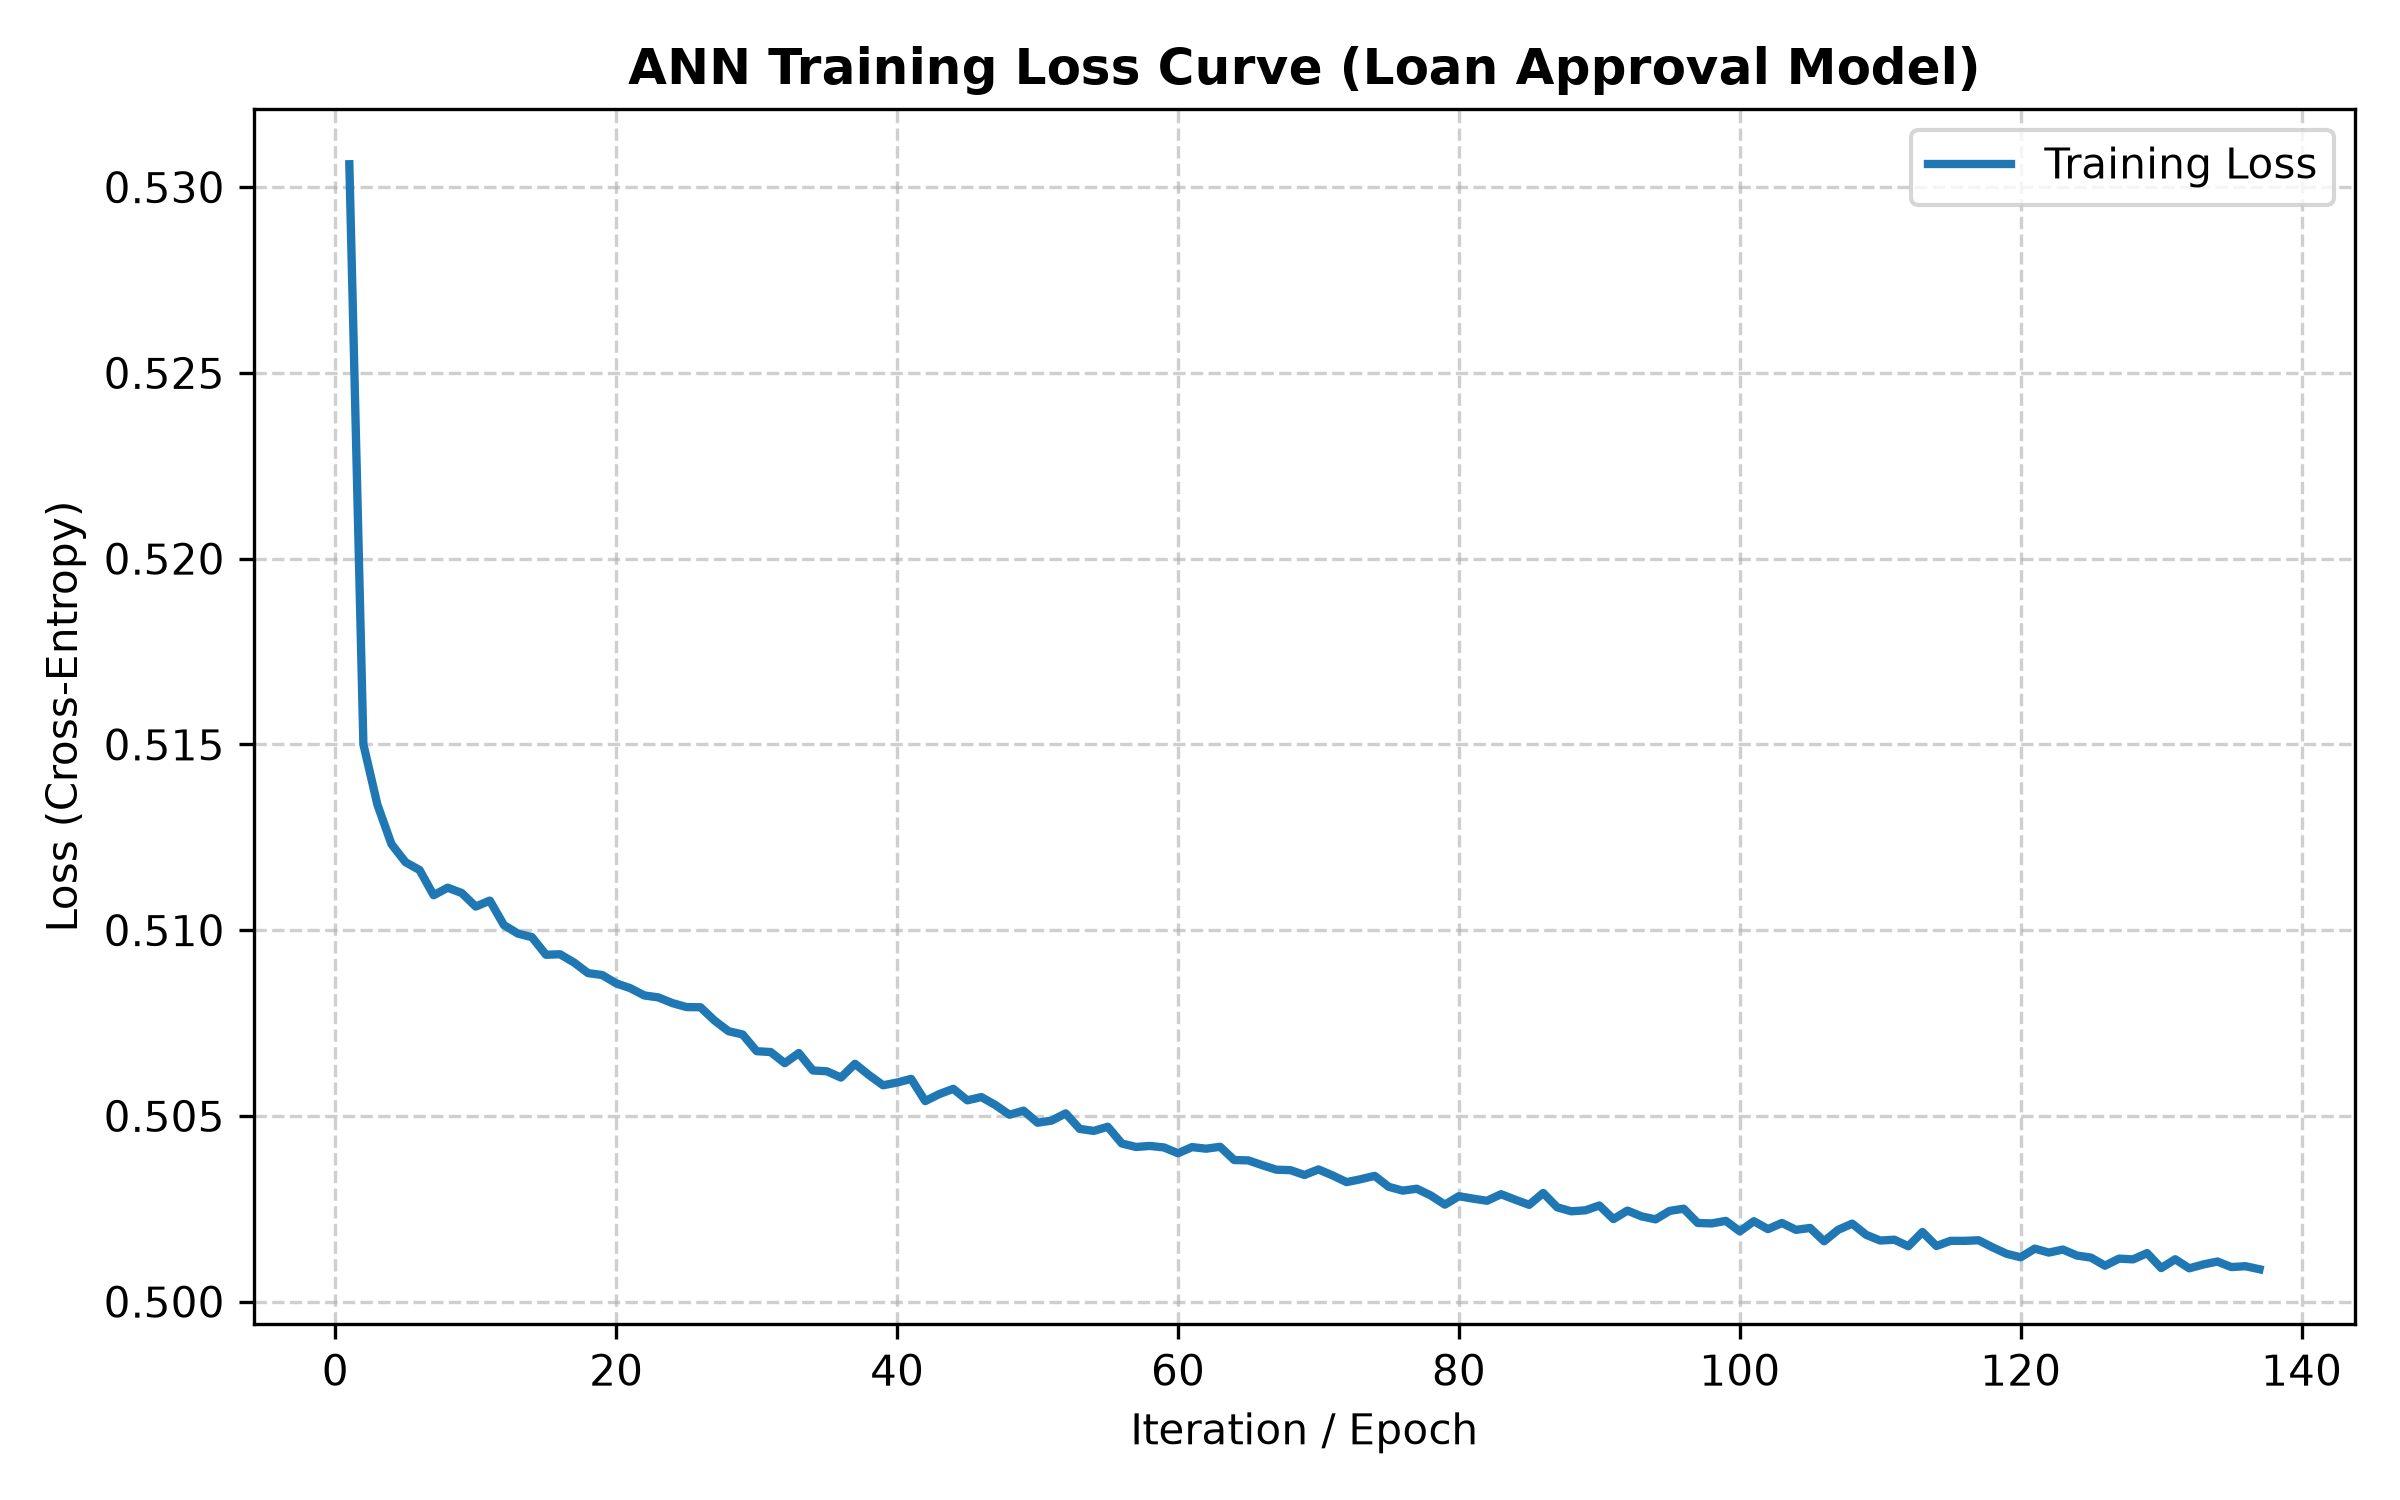
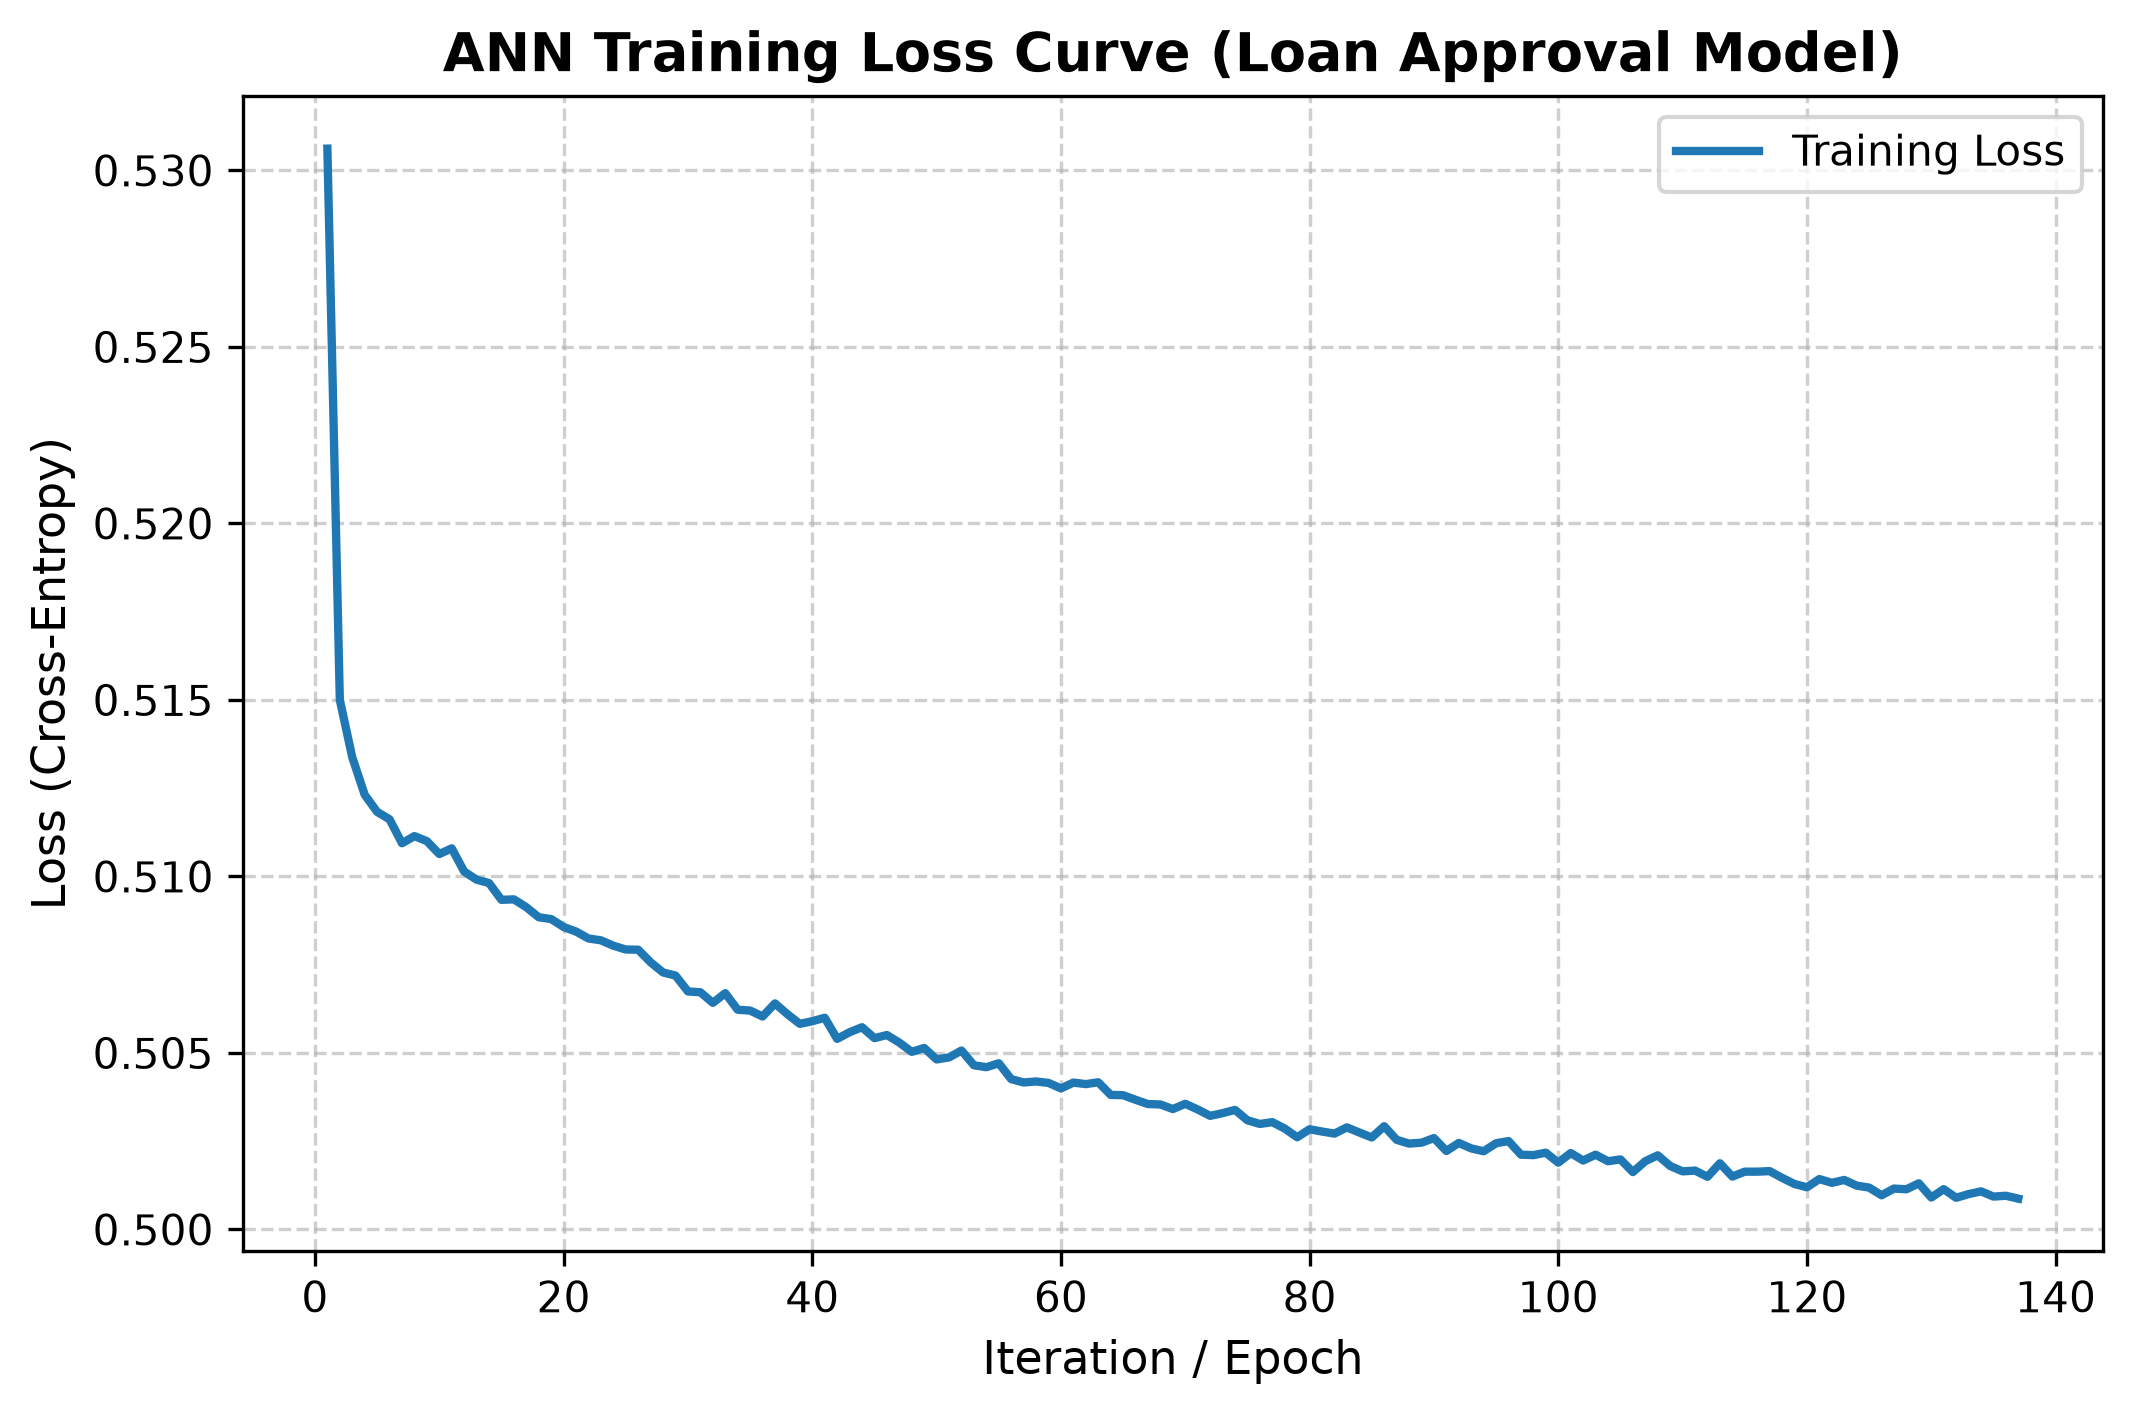
rearanging files

diff --git a/docs/STEP-3.md b/docs/STEP-3.md
@@ -37,3 +37,23 @@ All training artifacts and evaluation outputs are persisted to disk[cite: 17]:
 
 ## 7. Model Limitations
 This model provides automated statistical risk scoring based on historical training data[cite: 10, 15]. It does not replace manual credit underwriting, full institutional audits, or real-time regulatory compliance checks. Decisions with borderline confidence thresholds require human underwriter review to prevent unintended financial exposure or discriminatory bias[cite: 2, 16].
+---
+
+## 8. Product Integration: Loan Decision Card & Risk Meters (Product v1)
+
+### Overview
+Translates raw model probability outputs (`ann_pipeline.predict_proba`) into an interpretable operational interface based on `product-v1-sketch.png`[cite: 1, 2].
+
+### Key Components:
+1. **Decision Status & Thresholding**:
+   - **Approved (Green)**: Probability score $\ge 0.75$ (strictly enforces low default risk)[cite: 2].
+   - **Rejected / Underwriter Referral (Red/Amber)**: Probability score $< 0.75$[cite: 2].
+2. **Dual Risk Meters**:
+   - **Approval Probability Gauge**: Direct model confidence score ($0\% - 100\%$)[cite: 2].
+   - **Default Risk Gauge**: Complement probability ($1.0 - \text{Approval Score}$)[cite: 2].
+3. **Operational Policy Bands**:
+   - **$\ge 75\%$**: Automated approval & instant loan disbursement[cite: 2].
+   - **$50\% - 74\%$**: Borderline confidence; routes applicant to credit underwriter for manual review[cite: 2].
+   - **$< 50\%$**: High credit risk rejection[cite: 2].
+4. **Artifacts**:
+   - Visual plot saved as `results/product_v1_decision_card.png`[cite: 1].
